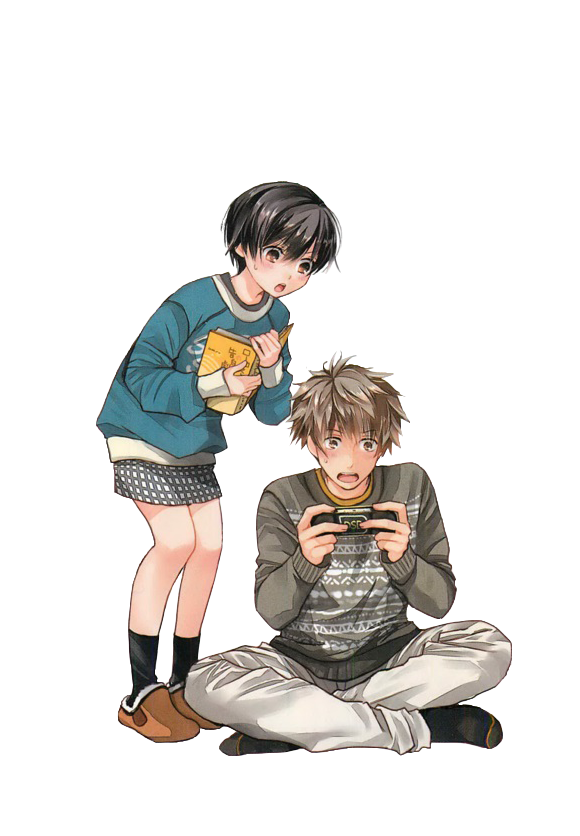
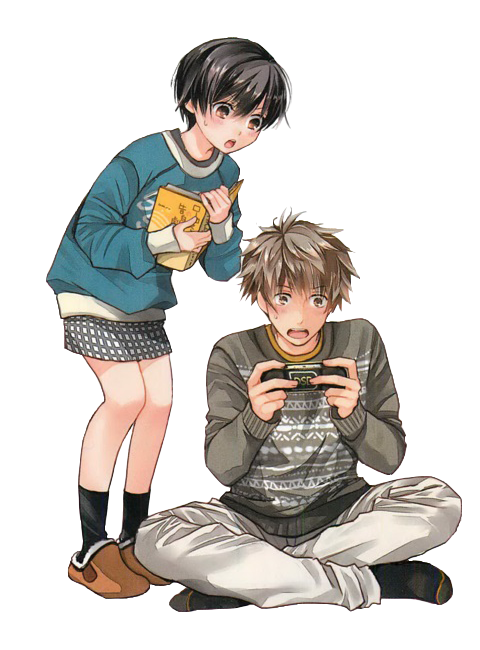
change

diff --git a/blog.html b/blog.html
@@ -23,8 +23,11 @@ permalink: /blog/
 <section>
   <div class="container">
     <div class="row">
-      <img class="ritsu-left" src="../img/ritsu2.png" alt="img">
-      <div class="col-md-9">
+      <div class="col-md-1">
+        <img class="ritsu-left" src="../img/ritsu2.png" alt="img">
+      </div>
+      <!-- <img class="ritsu-left" src="../img/ritsu2.png" alt="img"> -->
+      <div class="col-md-8">
           {% for post in site.posts %}
           <div class="post-area">
             <a href="{{ post.url | prepend: site.baseurl }}" class="bold">{{ post.title }}</a>

diff --git a/writing.html b/writing.html
@@ -23,8 +23,10 @@ permalink: /writing/
 <section>
   <div class="container">
     <div class="row">
-      <img class="ritsu-left ritsu-lg" src="../img/ritsu4.png" alt="img">
-      <div class="col-md-9">
+      <div class="col-md-1">
+        <img class="ritsu-left ritsu-lg" src="../img/ritsu4.png" alt="img">
+      </div>
+      <div class="col-md-8">
           {% for post in site.posts %}
           <div class="post-area">
             <a href="{{ post.url | prepend: site.baseurl }}" class="bold">{{ post.title }}</a>

diff --git a/_includes/head.html b/_includes/head.html
@@ -27,11 +27,11 @@
 <script src="{{ site.baseurl }}/js/min/waypoints.min.js"></script>
 <script src="{{ site.baseurl }}/js/jquery.counterup.js"></script>
 
-<!-- <script>
+<script>
 if (screen && screen.width > 480) {
   document.write('<script src="{{ site.baseurl }}/js/sakura.js"><\/script><script type="text/javascript">$(function(){$("body").sakura()});$(window).load(function(){$("body").sakura()});<\/script>');
 }
-</script> -->
+</script>
 
 
 <script src="{{ site.baseurl }}/js/main.js"></script>

diff --git a/acg.html b/acg.html
@@ -23,8 +23,10 @@ permalink: /acg/
 <section>
   <div class="container">
     <div class="row">
-      <img class="ritsu-left" src="../img/ritsu6.png" alt="img">
-      <div class="col-md-9">
+      <div class="col-md-1">
+        <img class="ritsu-left" src="../img/ritsu6.png" alt="img">
+      </div>
+      <div class="col-md-8">
           {% for post in site.posts %}
           <div class="post-area">
             <a href="{{ post.url | prepend: site.baseurl }}" class="bold">{{ post.title }}</a>

diff --git a/css/cllozBlog.css b/css/cllozBlog.css
@@ -39,14 +39,17 @@
 }
 
 .ritsu-left {
-    height: 300px;
+    height: 200px;
     float: left;
     margin-top: 200px;
-    margin-left: -350px;
+    margin-left: -250px;
 }
-
+.ritsu-right {
+    height: 430px;
+    margin-top: 150px;
+}
 .ritsu-lg {
-    height: 400px;
+    height: 250px;
 }
 
 #global-header .block {

diff --git a/_includes/header.html b/_includes/header.html
@@ -1,6 +1,6 @@
 <!-- Header Start -->
 <header>
-<!-- <audio src="../src/music.mp3"  hidden=true loop=true autoplay=true></audio> -->
+<audio src="../src/music.mp3"  hidden=true loop=true autoplay=true></audio>
 <div class="container">
   <div class="row">
     <div class="col-md-12">
